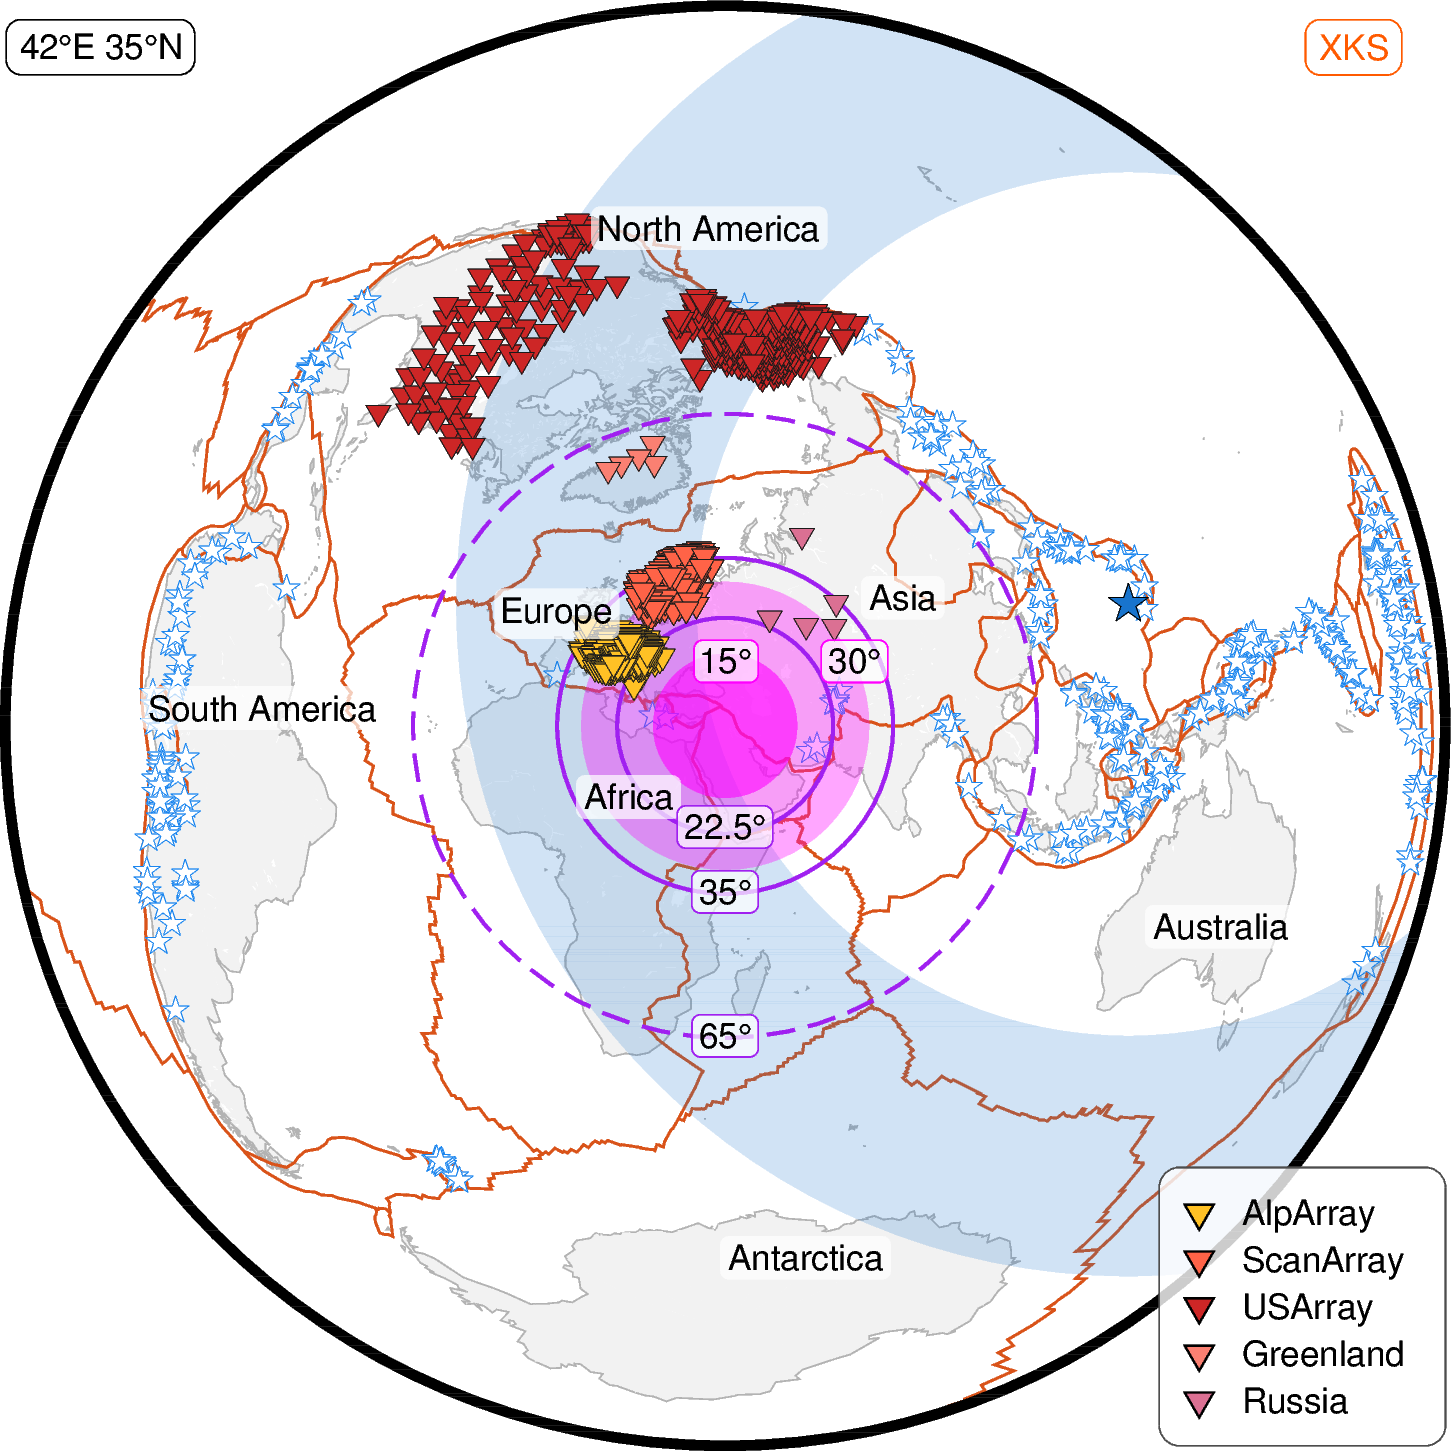
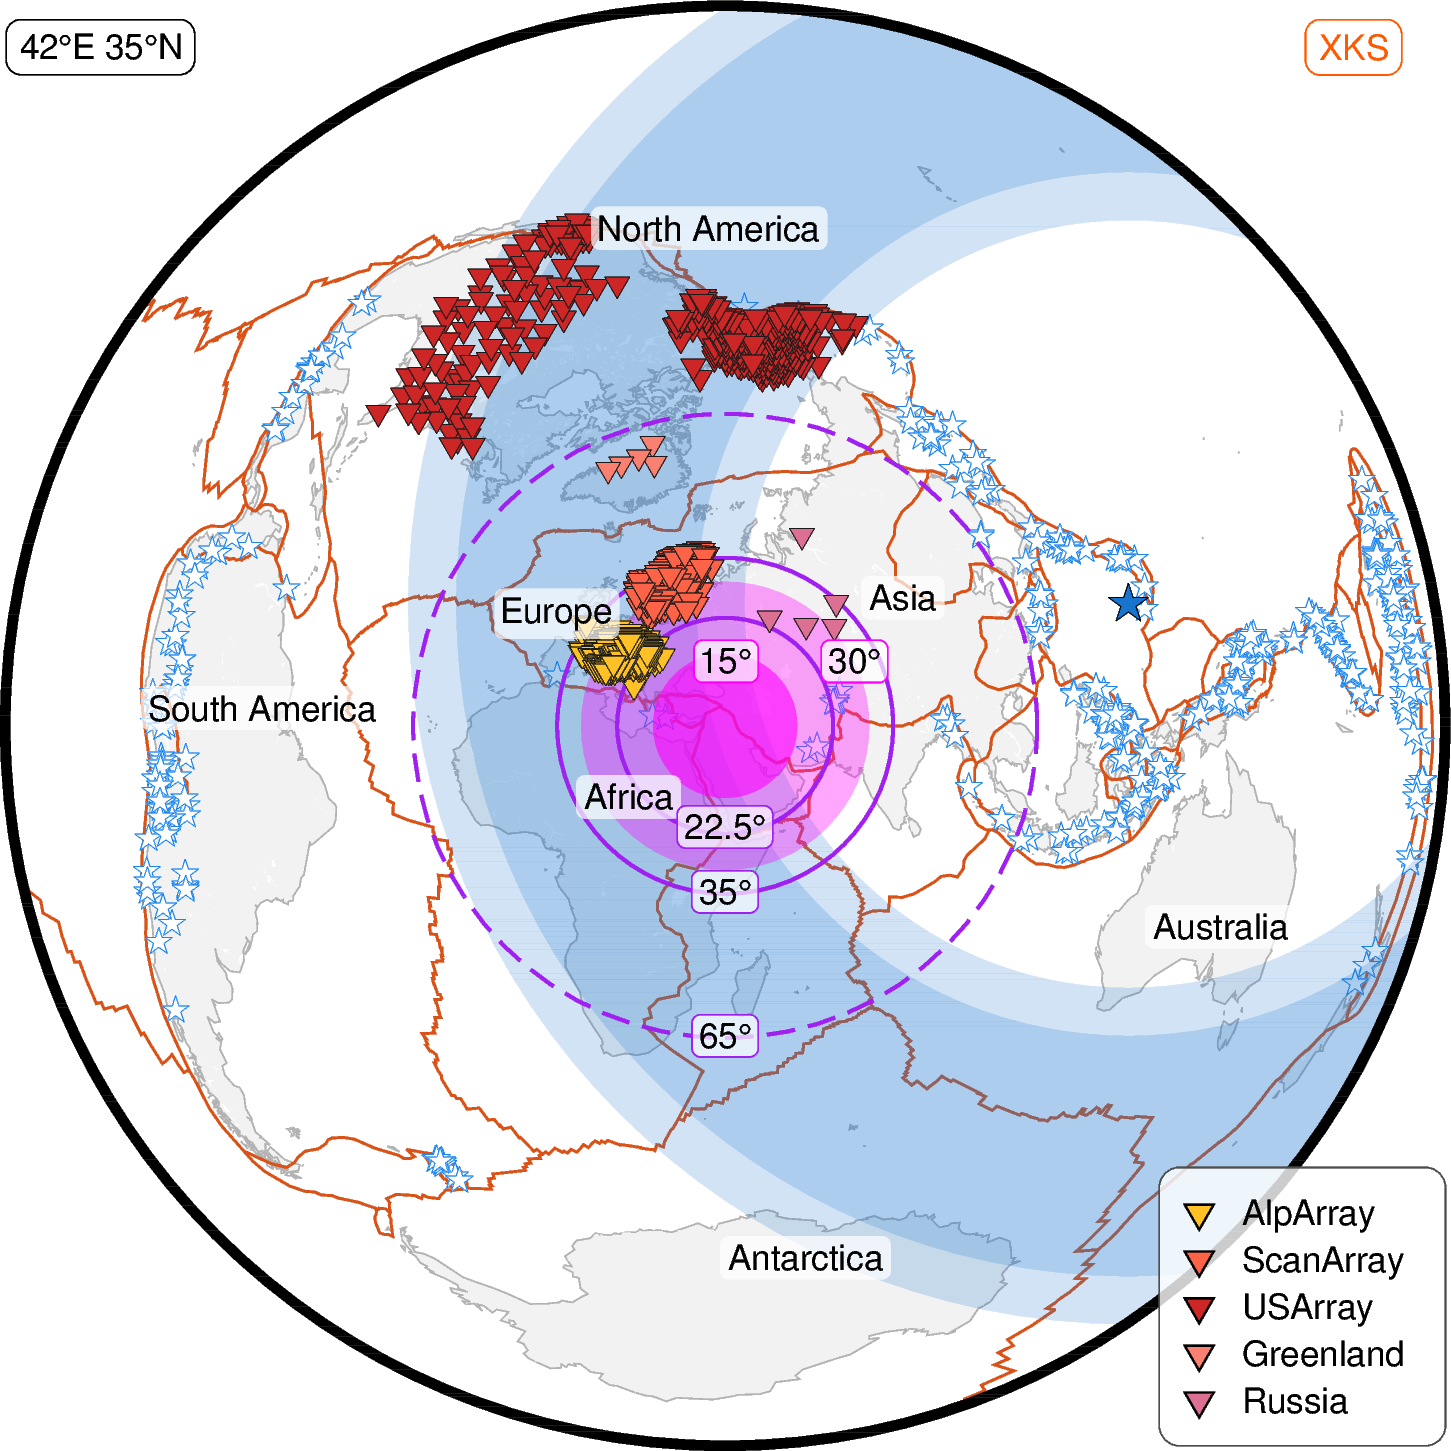
Improve coding style

Changed region(s): [[0.2791, 0.0, 0.9924, 0.9304], [0.8374, 0.1551, 0.8684, 0.1861]]

diff --git a/009_deepdyn/01_epidistance_lmm/SPP_LMM_XKS_ScS_epidist.py b/009_deepdyn/01_epidistance_lmm/SPP_LMM_XKS_ScS_epidist.py
@@ -34,7 +34,8 @@
 # - PyGMT v0.12.0 with GMT 6.5.0 -> https://www.pygmt.org/v0.12.0/
 # - PyGMT v0.13.0 with GMT 6.5.0 -> https://www.pygmt.org/v0.13.0/
 # -----------------------------------------------------------------------------
-# Stations coordinates taken from GMT map "005_map_equidist_siberia" by Michael Grund
+# Stations coordinates input files were modified from GMT map
+# "005_map_equidist_siberia" by Michael Grund
 # Source of original script, data, and manual (last access 2022/04/06)
 # https://github.com/michaelgrund/GMT-plotting/tree/main/005_map_equidist_siberia
 # a modified version is part of his PhD thesis (DOI: 10.5445/IR/1000091425)
@@ -67,16 +68,16 @@ def sws_lmm_deepdyn(
     # - fig_name_add: string | addition to file name     | Default ""
     # - folder_out:   string | folder to store images in | Default current working directory
 
-
-# -----------------------------------------------------------------------------
+    # %%
+    # -------------------------------------------------------------------------
     # Set up
-# -----------------------------------------------------------------------------
-    # general stuff
+    # -------------------------------------------------------------------------
+    # General stuff
     path_in = "01_in_data"
-    myfont = "3.5p"
+    font = "3.5p"
 
-# -----------------------------------------------------------------------------
-    # map set up
+    # -------------------------------------------------------------------------
+    # Map set up
     map_size = 2  # inches, radius of whole figure
     pro_area_XKS = 150
     pro_area_ScS = 100
@@ -87,31 +88,35 @@ def sws_lmm_deepdyn(
 
     deg2inch = map_size / pro_area
 
-# -----------------------------------------------------------------------------
-    # circles related to target zone
+    # -------------------------------------------------------------------------
+    # Circles related to target zone
     size_tag_main_deg = 15  # 15 deg radius main target zone
     size_tag_add_deg = 15  # 15 deg radius around main target zone
     size_tag_main = deg2inch * size_tag_main_deg
     size_tag_add = deg2inch * size_tag_add_deg
 
-# -----------------------------------------------------------------------------
-    # cricles related to epicenters
+    # -------------------------------------------------------------------------
+    # Cricles related to epicenters
     match sws_type:
         case "XKS":
             size_epi_min_deg = 90  # 80
             size_epi_max_deg = 140  # 150
+            size_epi_min_add_deg = 80  # 80
+            size_epi_max_add_deg = 150  # 150
         case "ScS":
             size_epi_min_deg = 60
             size_epi_max_deg = 90
     size_epi_min = deg2inch * size_epi_min_deg
     size_epi_max = deg2inch * size_epi_max_deg
+    size_epi_min_add = deg2inch * size_epi_min_add_deg
+    size_epi_max_add = deg2inch * size_epi_max_add_deg
 
-# -----------------------------------------------------------------------------
-    # circles related to stations
+    # -------------------------------------------------------------------------
+    # Circles related to stations
     match sws_type:
         case "XKS":
-            sta2tag_min = 22.5
-            sta2tag_max = 35
+            sta2tag_min = 22.5  # size_tag_main_deg + 2  # rough eastimation
+            sta2tag_max = 35  # size_tag_main_deg + 20
         case "ScS":  # middel
             sta2tag_min = size_epi_min_deg / 2 - 1  # avoid overlap
             sta2tag_max = size_epi_max_deg / 2
@@ -124,13 +129,13 @@ def sws_lmm_deepdyn(
     size_sta_add_max_deg = sta2tag_max + size_tag_add_deg
     size_sta_add_max = deg2inch * size_sta_add_max_deg
 
-# -----------------------------------------------------------------------------
-    # legend
+    # -------------------------------------------------------------------------
+    # Legend
     box_standard = "+gwhite@20+p0.1p,gray30+r2p"  # box
     leg_net_pos = "JRB+jRB+w1.01c"  # position
 
-# -----------------------------------------------------------------------------
-    # colors - can be changed for personal preferences
+    # -------------------------------------------------------------------------
+    # Colors - can be changed for personal preferences
     color_highlight = "255/90/0"
     color_patb = "216.750/82.875/24.990"
     color_land = "gray95"
@@ -161,12 +166,12 @@ def sws_lmm_deepdyn(
 
     clearance_standard = "0.03c/0.03c+tO"
 
-# -----------------------------------------------------------------------------
-    # data
+    # -------------------------------------------------------------------------
+    # Data
     data_patb = "plate_boundaries_Bird_2003.txt"  # plate boundaries
     data_epi = "eq_CMT_lon_lat_LMM.txt"  # epicenters
 
-    # coordinates of stations
+    # Coordinates of stations
     sta_AA_perm = "coord_AlpArray_perm.dat"
     sta_AA_temp = "coord_AlpArray_temp.dat"
     sta_GL = "coord_Greenland.dat"
@@ -178,10 +183,10 @@ def sws_lmm_deepdyn(
     key_choose = ["SA_2", "RUS", "SA", "AA_perm", "AA_temp", "USA", "GL"]
     # key_choose = ["SA_2", "SA", "AA_perm", "AA_temp", "USA"]
 
-# -----------------------------------------------------------------------------
-    # dictionaries
+    # -------------------------------------------------------------------------
+    # Dictionaries
 
-    # fill color of station markers and line color of ray paths
+    # Fill color of station markers and line color of ray paths
     dic_col = {
         "AA_perm": color_AA,
         "AA_temp": color_AA,
@@ -193,7 +198,7 @@ def sws_lmm_deepdyn(
         "USA_sub": color_USA,
     }
 
-    # coordinates of stations
+    # Coordinates of stations
     dic_sta = {
         "AA_perm": sta_AA_perm,
         "AA_temp": sta_AA_temp,
@@ -206,18 +211,18 @@ def sws_lmm_deepdyn(
     }
 
 
-# %%
-# -----------------------------------------------------------------------------
+    # %%
+    # -------------------------------------------------------------------------
     # Create geographic maps
-# -----------------------------------------------------------------------------
+    # -------------------------------------------------------------------------
     # Create new PyGMT Figure instance
     fig = gmt.Figure()
 
-# -----------------------------------------------------------------------------
+    # -------------------------------------------------------------------------
     # Change default values of GMT globally
-    gmt.config(MAP_FRAME_PEN=f"1p,{color_frame}", FONT_ANNOT_PRIMARY=myfont)
+    gmt.config(MAP_FRAME_PEN=f"1p,{color_frame}", FONT_ANNOT_PRIMARY=font)
 
-# -----------------------------------------------------------------------------
+    # -------------------------------------------------------------------------
     # Create epidistance plot mit centre = target zone
     fig.coast(
         region="g",
@@ -228,11 +233,11 @@ def sws_lmm_deepdyn(
         shorelines=f"1/0.1p,{color_shorelines}",
     )
 
-# -----------------------------------------------------------------------------
+    # -------------------------------------------------------------------------
     # Plot plate boundaries after Bird 2003
     fig.plot(data=f"{path_in}/{data_patb}", pen=f"0.25p,{color_patb}")
 
-# -----------------------------------------------------------------------------
+    # -------------------------------------------------------------------------
     # Plot epicenters
     fig.plot(
         data=f"{path_in}/{data_epi}",
@@ -241,7 +246,7 @@ def sws_lmm_deepdyn(
         pen=f"0.01p,{color_out_epi}",
     )
 
-# -----------------------------------------------------------------------------
+    # -------------------------------------------------------------------------
     # Stations around epicenters
     if sws_type == "XKS":
         # Plot example epicenters
@@ -256,12 +261,19 @@ def sws_lmm_deepdyn(
         fig.plot(
             x=lon_epi,
             y=lat_epi,
+            style=f"c{(size_epi_max_add + size_epi_min_add) / 2}i",
+            pen=f"{(size_epi_max_add - size_epi_min_add) / 2}i,{color_epi2tag}@80",
+            # no_clip=True,
+        )
+        fig.plot(
+            x=lon_epi,
+            y=lat_epi,
             style=f"c{(size_epi_max + size_epi_min) / 2}i",
             pen=f"{(size_epi_max - size_epi_min) / 2}i,{color_epi2tag}@80",
             # no_clip=True,
         )
 
-# -----------------------------------------------------------------------------
+    # -------------------------------------------------------------------------
     # Target area
     # additional
     fig.plot(
@@ -278,7 +290,7 @@ def sws_lmm_deepdyn(
         fill=f"{color_tag}@40",
     )
 
-# -----------------------------------------------------------------------------
+    # -------------------------------------------------------------------------
     # Stations around target area
     # main
     fig.plot(
@@ -301,10 +313,10 @@ def sws_lmm_deepdyn(
         pen=f"0.35p,{color_sta2tag},-",
     )
 
-# -----------------------------------------------------------------------------
+    # -------------------------------------------------------------------------
     # Recording stations
     for key in key_choose:
-        # set input order of columns depending on file
+        # Set input order of columns depending on file
         if key in ["SA_2", "SA", "USA_sub"]:
             incols_first = 0
             incols_second = 1
@@ -320,7 +332,7 @@ def sws_lmm_deepdyn(
             incols=[incols_first, incols_second],
         )
 
-# -----------------------------------------------------------------------------
+    # -------------------------------------------------------------------------
     # Circle zoom in for ScS
     # if sws_type == "XKS":
     #     fig.plot(
@@ -330,11 +342,11 @@ def sws_lmm_deepdyn(
     #         pen="0.50p,gray30,.",
     #     )
 
-# -----------------------------------------------------------------------------
+    # -------------------------------------------------------------------------
     # Add map frame
     fig.basemap(frame=0)
 
-# -----------------------------------------------------------------------------
+    # -------------------------------------------------------------------------
     # Add labels of continents
     text=[
         "Africa",
@@ -350,12 +362,12 @@ def sws_lmm_deepdyn(
         x=[21.00, 74.305, -135.553, 102.255, -54.665, 138.51, -13.708],
         y=[18.38, -75, 41.099, 48.099, -2, -29.7, 47.388],
         text=text,
-        font=myfont,
+        font=font,
         fill="white@30",
         clearance=clearance_standard,
     )
 
-# -----------------------------------------------------------------------------
+    # -------------------------------------------------------------------------
     # Add annotation circles
     match sws_type:
         case "XKS":
@@ -374,13 +386,13 @@ def sws_lmm_deepdyn(
             position="MC",
             offset=f"{offset_circle_x[cl]}i/{offset_circle_y[cl]}i",
             text=text_circle[cl],
-            font=myfont,
+            font=font,
             fill="white@30",
             pen=f"0.1p,{color_pen}",
             clearance=clearance_standard,
         )
 
-# -----------------------------------------------------------------------------
+    # -------------------------------------------------------------------------
     # Add labels
     position_target = "LT"
     offset_cord = "0.05c/-0.1c"
@@ -393,7 +405,7 @@ def sws_lmm_deepdyn(
         position=position_target,
         offset=offset_cord,
         text=target_label,
-        font=f"{myfont},{color_frame}",
+        font=f"{font},{color_frame}",
         pen=f"0.1p,{color_frame}",
         clearance="0.05c/0.05c+tO",
     )
@@ -403,12 +415,12 @@ def sws_lmm_deepdyn(
         position=position_phase,
         offset=offset_phase,
         text=sws_type,
-        font=f"{myfont},{color_highlight}",
+        font=f"{font},{color_highlight}",
         pen=f"0.1p,{color_highlight}",
         clearance="0.05c/0.05c+tO",
     )
 
-# -----------------------------------------------------------------------------
+    # -------------------------------------------------------------------------
     # Add legend
     fig.legend(
         spec=f"{path_in}/legend_gmt_network.txt",
@@ -416,7 +428,7 @@ def sws_lmm_deepdyn(
         box=box_standard,
     )
 
-# -----------------------------------------------------------------------------
+    # -------------------------------------------------------------------------
     # Show and save figure
     fig.show()
     fig_name = f"DeepDyn_LMM_{sws_type}_" + \
@@ -436,7 +448,7 @@ sws_lmm_deepdyn(
     sws_type="XKS",
     lon_center=42,
     lat_center=35,
-    lon_epi=140,
+    lon_epi=140,  # choose something realistic ...
     lat_epi=15,
     folder_out="02_out_figs/",
 )
